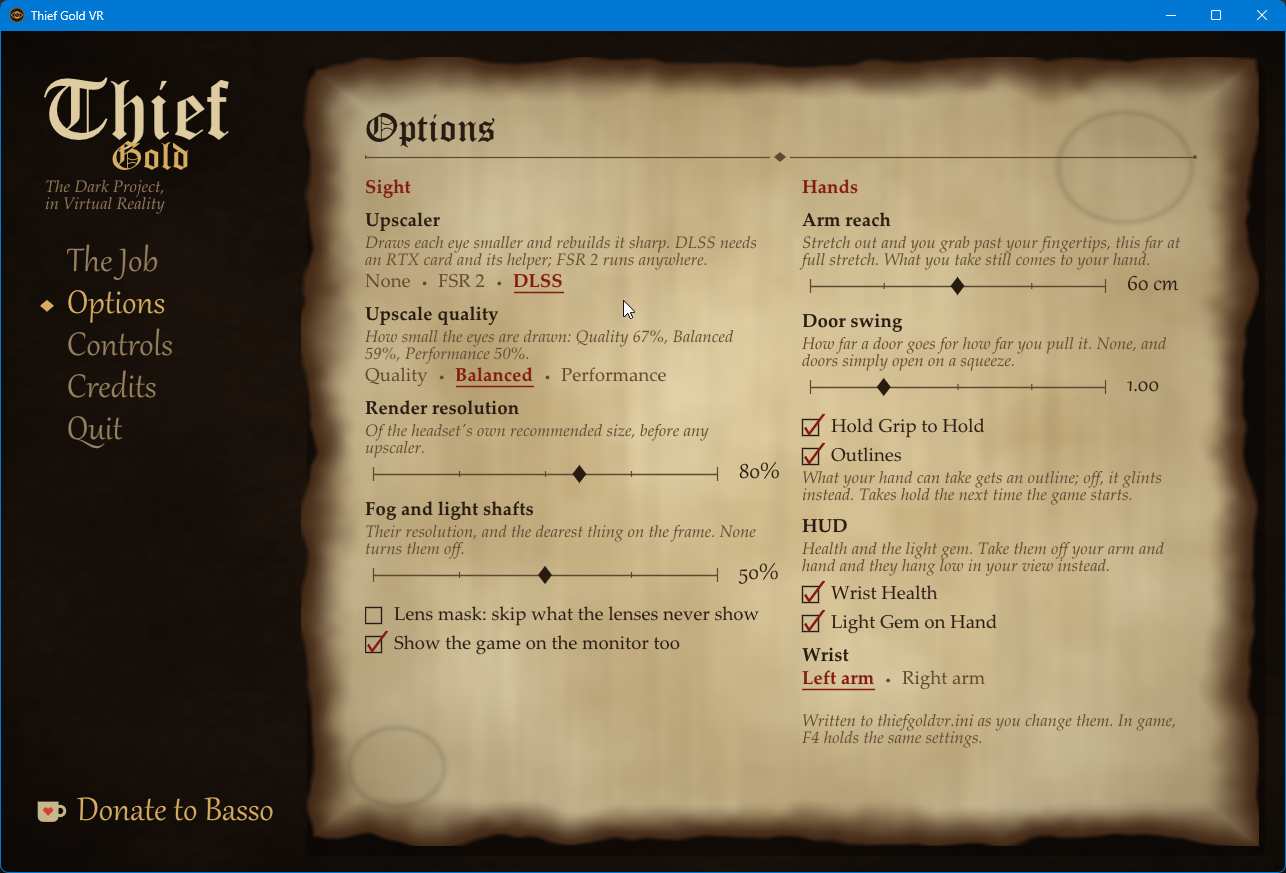
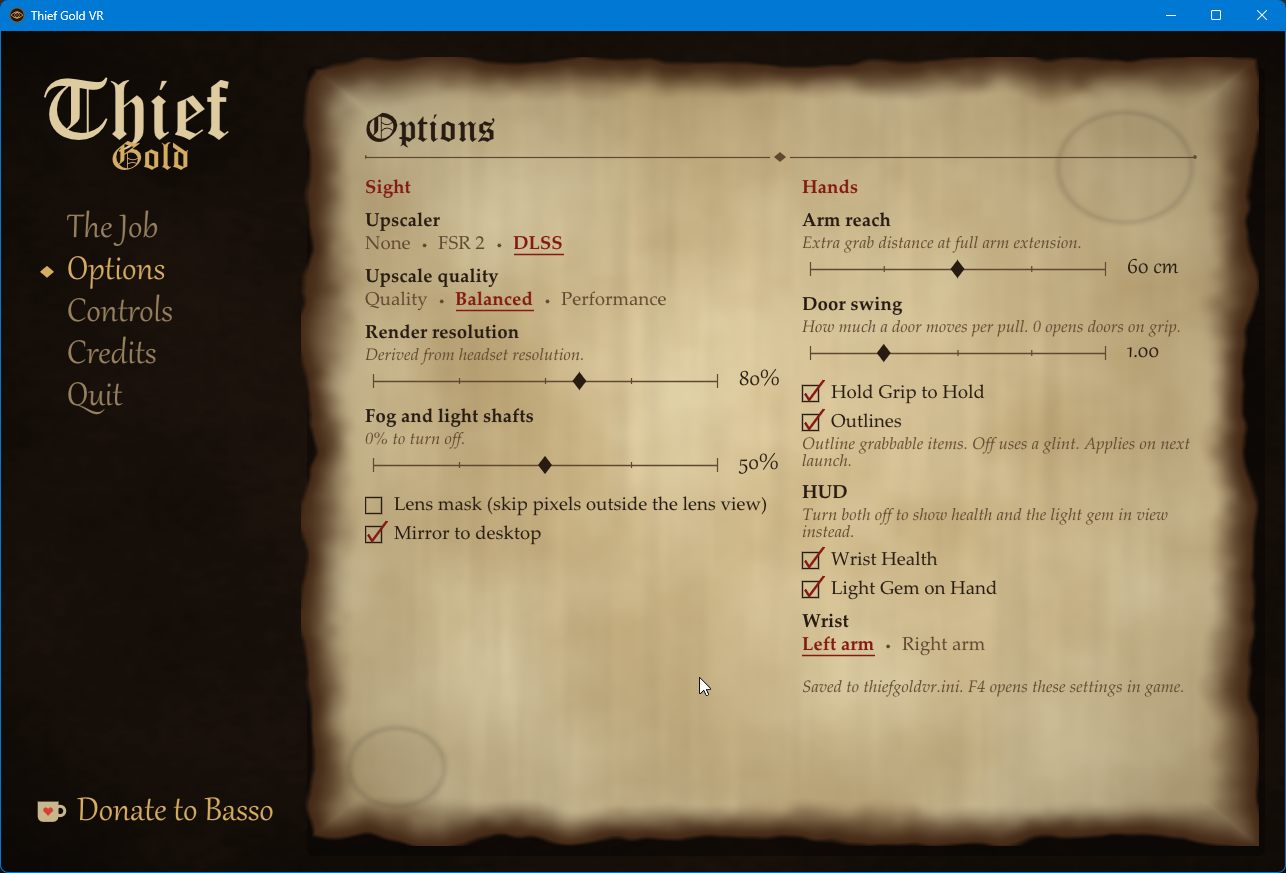
Add Physical Climbing and Mantling post, update launcher screenshot

diff --git a/index.html b/index.html
@@ -40,6 +40,14 @@
 
   <article>
     <div>
+      <h3>Physical Climbing and Mantling</h3>
+      <p>Another roadmap completed.</p>
+    </div>
+    <div class="short"><iframe src="https://www.youtube.com/embed/K8cU6yWBieA" title="Physical Climbing and Mantling" loading="lazy" allowfullscreen></iframe></div>
+  </article>
+
+  <article>
+    <div>
       <h3>The Launcher</h3>
       <p>Here's what you can expect from the easy to use launcher. I want this as plug and play as possible.</p>
     </div>
